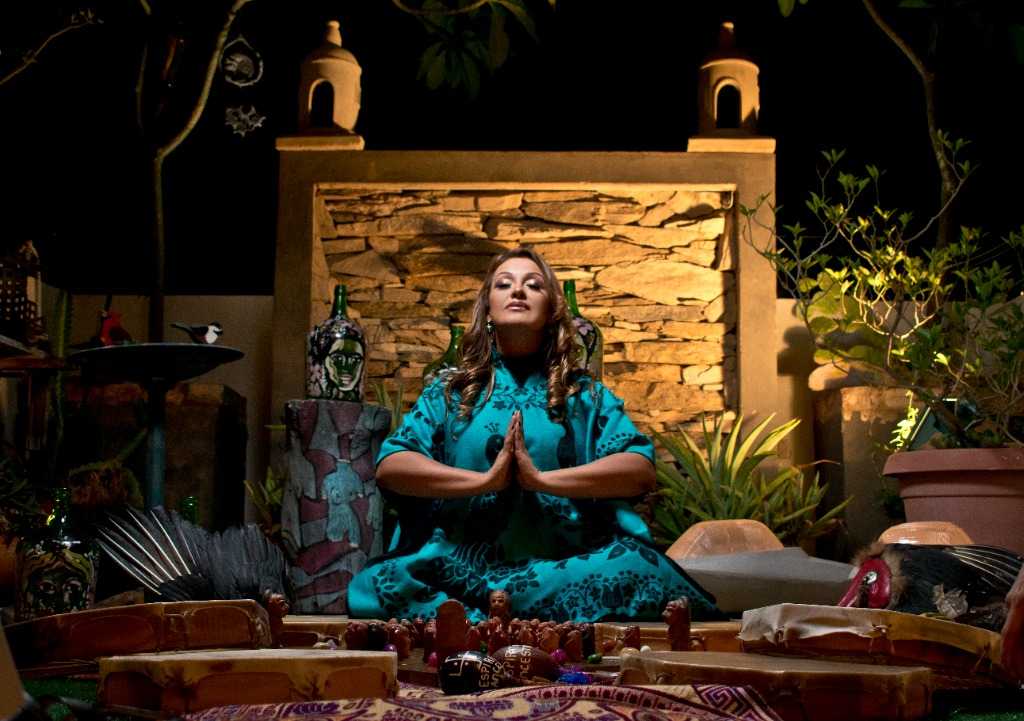
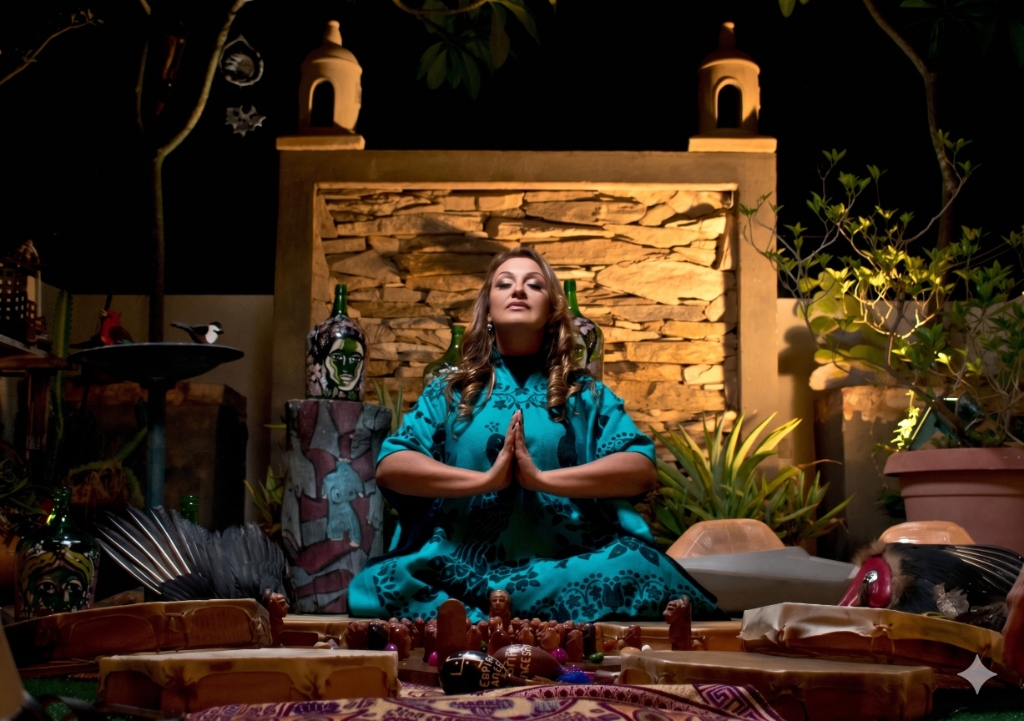
style: remove zoom from hero slider and adjust services slide positioning

diff --git a/components/home/NewHero.tsx b/components/home/NewHero.tsx
@@ -13,7 +13,8 @@ const slides = [
         subtitle: "los patrones que guía tu vida",
         button: "INICIA MI EXPLORACIÓN",
         link: "/tests",
-        image: "/assets/images/hero/hero-new-bg.jpg"
+        image: "/assets/images/hero/hero-new-bg.jpg",
+        position: "center"
     },
     {
         id: "board",
@@ -22,7 +23,8 @@ const slides = [
         subtitle: "arquitectura de vida sistémica",
         button: "CONOCE EL TABLERO",
         link: "/servicios/coaching-ancestral",
-        image: "/assets/images/hero/hero-fusion-group.jpg"
+        image: "/assets/images/hero/hero-fusion-group.jpg",
+        position: "center"
     },
     {
         id: "services",
@@ -31,7 +33,8 @@ const slides = [
         subtitle: "sesiones que transforman tu realidad",
         button: "VER SERVICIOS",
         link: "/servicios",
-        image: "/assets/images/hero/hero-services-bg.jpg"
+        image: "/assets/images/hero/hero-services-bg.jpg",
+        position: "center 30%"
     },
     {
         id: "books",
@@ -40,7 +43,8 @@ const slides = [
         subtitle: "guías para tu evolución espiritual",
         button: "IR A LA TIENDA",
         link: "/libros",
-        image: "/assets/images/hero/hero-books-bg.jpg"
+        image: "/assets/images/hero/hero-books-bg.jpg",
+        position: "center"
     }
 ];
 
@@ -71,7 +75,8 @@ export default function NewHero() {
                             src={slides[current].image}
                             alt={slides[current].title}
                             fill
-                            className="object-cover scale-105"
+                            className="object-cover"
+                            style={{ objectPosition: slides[current].position || 'center' }}
                             priority
                         />
                         {/* Global Overlays - Softer for more visibility */}
